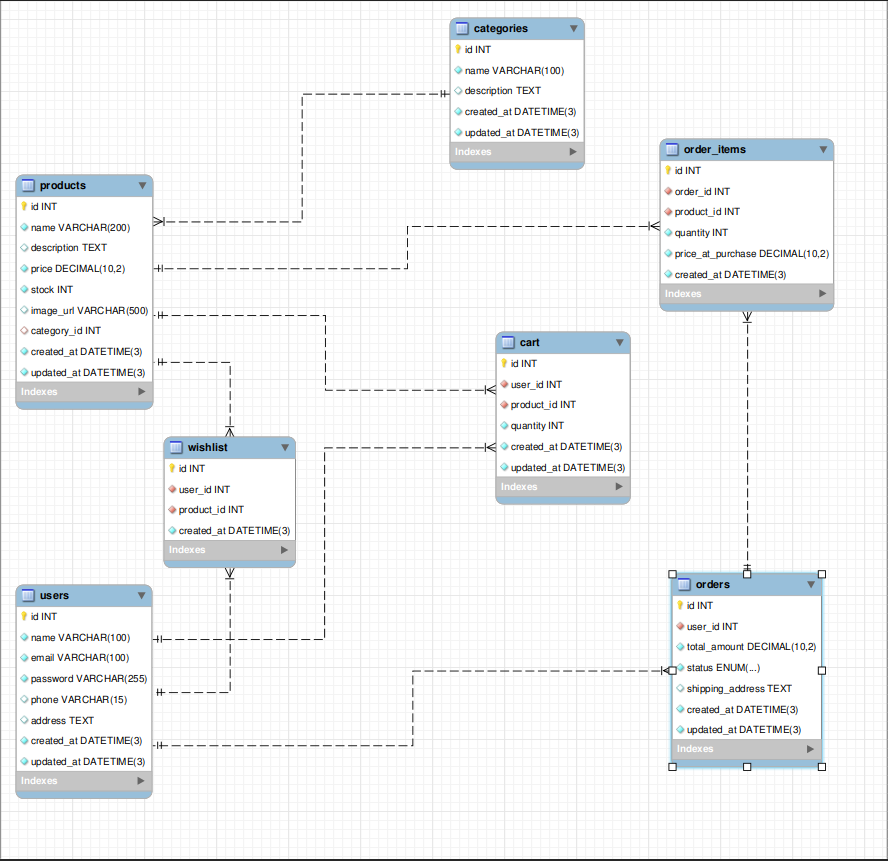
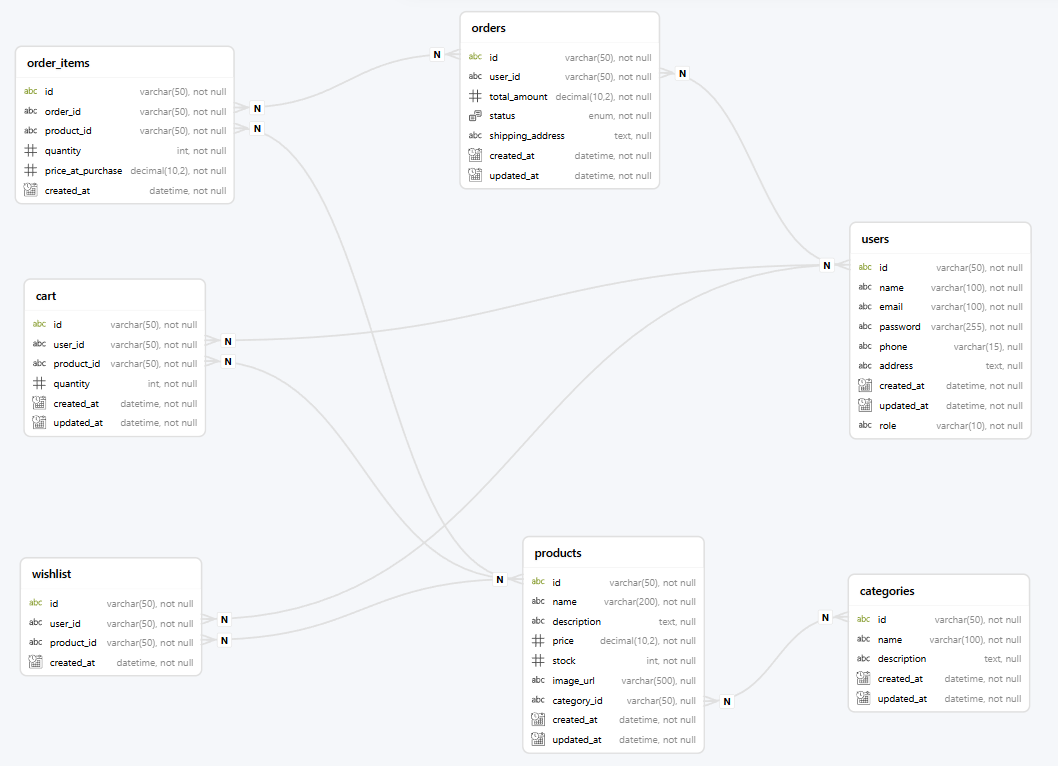
added: ERD diagram and updated README.md

diff --git a/README.md b/README.md
@@ -38,7 +38,7 @@ Buykart is a modern, full-stack e-commerce application built with a mono-repo ar
 ## 🏗 Architecture & Deployment
 
 ### CI/CD Pipelines
-We use GitHub Actions for automated, atomic deployments.
+I used GitHub Actions for automated, atomic deployments.
 
 #### 1. Backend Pipeline (`backend-deploy.yml`)
 - **Trigger**: Push to `main` with changes in `/backend`
@@ -71,49 +71,50 @@ We use GitHub Actions for automated, atomic deployments.
 
 ## 📂 Database Schema
 
-We use **Prisma ORM** with MySQL. Below is the relational schema overview:
+I used **Prisma ORM** with MySQL. Below is the relational schema overview:
 
 ![ER Diagram](./ERD.png)
 
 ### 👤 User & Authentication
 | Model | PK / FK | Field | Type | Description |
 |-------|---------|-------|------|-------------|
-| **User** | 🔑 PK | `id` | Int | Unique User ID |
+| **User** | 🔑 PK | `id` | String | Unique User ID (USR-xxx) |
+| | | `name` | String | Full name of the user |
 | | | `email` | String | Unique email address |
 | | | `password` | String | Hashed password (Bcrypt) |
 
 ### 📦 Product Management
 | Model | PK / FK | Field | Type | Relation |
 |-------|---------|-------|------|----------|
-| **Category** | 🔑 PK | `id` | Int | |
+| **Category** | 🔑 PK | `id` | String | (CAT-xxx) |
 | | | `name` | String | Category name (e.g., Electronics) |
-| **Product** | 🔑 PK | `id` | Int | |
-| | 🔗 FK | `categoryId` | Int | → **Category**(`id`) |
+| **Product** | 🔑 PK | `id` | String | (PRD-xxx) |
+| | 🔗 FK | `categoryId` | String | → **Category**(`id`) |
 | | | `price` | Decimal | Product price |
 | | | `stock` | Int | Inventory count |
 
 ### 🛒 Shopping & Wishlist
 | Model | PK / FK | Field | Type | Relation |
 |-------|---------|-------|------|----------|
-| **Cart** | 🔑 PK | `id` | Int | |
-| | 🔗 FK | `userId` | Int | → **User**(`id`) |
-| | 🔗 FK | `productId` | Int | → **Product**(`id`) |
+| **Cart** | 🔑 PK | `id` | String | (CRT-xxx) |
+| | 🔗 FK | `userId` | String | → **User**(`id`) |
+| | 🔗 FK | `productId` | String | → **Product**(`id`) |
 | | | `quantity` | Int | Item quantity |
-| **Wishlist** | 🔑 PK | `id` | Int | |
-| | 🔗 FK | `userId` | Int | → **User**(`id`) |
-| | 🔗 FK | `productId` | Int | → **Product**(`id`) |
+| **Wishlist** | 🔑 PK | `id` | String | (WSH-xxx) |
+| | 🔗 FK | `userId` | String | → **User**(`id`) |
+| | 🔗 FK | `productId` | String | → **Product**(`id`) |
 
 ### 🧾 Orders & Transactions
 | Model | PK / FK | Field | Type | Relation |
 |-------|---------|-------|------|----------|
-| **Order** | 🔑 PK | `id` | Int | |
-| | 🔗 FK | `userId` | Int | → **User**(`id`) |
+| **Order** | 🔑 PK | `id` | String | (ORD-xxx) |
+| | 🔗 FK | `userId` | String | → **User**(`id`) |
 | | | `status` | Enum | Pending, Confirmed, Shipped, Delivered |
-| | | `total` | Decimal | Total order amount |
-| **OrderItem** | 🔑 PK | `id` | Int | |
-| | 🔗 FK | `orderId` | Int | → **Order**(`id`) |
-| | 🔗 FK | `productId` | Int | → **Product**(`id`) |
-| | | `price` | Decimal | Price at time of purchase |
+| | | `totalAmount` | Decimal | Total order amount |
+| **OrderItem** | 🔑 PK | `id` | String | (ORI-xxx) |
+| | 🔗 FK | `orderId` | String | → **Order**(`id`) |
+| | 🔗 FK | `productId` | String | → **Product**(`id`) |
+| | | `priceAtPurchase` | Decimal | Price at time of purchase |
 
 ---
 
@@ -185,5 +186,4 @@ VITE_API_BASE_URL=http://localhost:3000/api
 - **Mono-repo**: Kept both frontend and backend in one repo for easier code sharing and version tracking.
 - **TiDB Cloud**: Selected for MySQL compatibility and serverless scalability.
 - **Redis**: Used for high-speed caching of product categories and session data.
-- **Shadcn UI**: Chosen for accessible, copy-paste components that are easily customizable.
 - **Docker Network**: Backend and Redis run on a custom `buykart-network` bridge to communicate securely on EC2.
